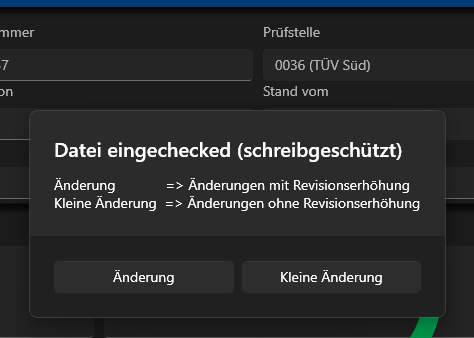
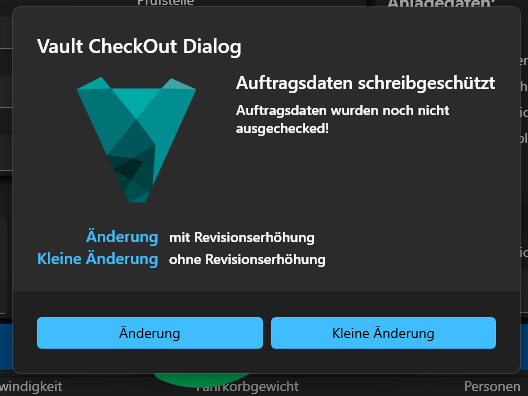
improve CheckOutDialog

diff --git a/LiftDataManager/Views/Dialogs/CheckOutDialog.xaml b/LiftDataManager/Views/Dialogs/CheckOutDialog.xaml
@@ -66,14 +66,13 @@
                     Margin="0,25,5,0"
                     VerticalAlignment="Center"
                     FontSize="36"
-                    FontWeight="Bold"
                     Foreground="IndianRed"
                     Glyph="&#xE7BA;"
                     Visibility="{x:Bind ViewModel.ShowReadOnlyWarning, Mode=OneWay}" />
                 <TextBlock
                     Width="275"
                     VerticalAlignment="Bottom"
-                    FontSize="16"
+                    FontSize="14"
                     Foreground="IndianRed"
                     Style="{StaticResource BodyStrongTextBlockStyle}"
                     Text="Bei schreibgeschützter Bearbeitung sind keine Änderungen möglich!"
@@ -92,39 +91,90 @@
             <Grid.RowDefinitions>
                 <RowDefinition Height="*" />
                 <RowDefinition Height="*" />
+                <RowDefinition Height="auto" />
             </Grid.RowDefinitions>
             <TextBlock
                 Grid.Row="0"
                 Grid.Column="0"
+                HorizontalAlignment="Right"
                 VerticalAlignment="Bottom"
-                FontSize="18"
+                FontSize="16"
                 Foreground="{ThemeResource AccentTextFillColorTertiaryBrush}"
                 Style="{StaticResource BodyStrongTextBlockStyle}"
-                Text="Änderung:" />
+                Text="Änderung">
+                <ToolTipService.ToolTip>
+                    <StackPanel>
+                        <TextBlock
+                            Margin="5"
+                            Foreground="{ThemeResource AccentTextFillColorTertiaryBrush}"
+                            Style="{StaticResource BodyStrongTextBlockStyle}"
+                            Text="Revision wird erhöht" />
+                        <Image Width="150" Source="/Docs/HelpImages/image189.png" />
+                    </StackPanel>
+                </ToolTipService.ToolTip>
+            </TextBlock>
             <TextBlock
                 Grid.Row="0"
                 Grid.Column="1"
                 Margin="10,0,0,0"
                 VerticalAlignment="Bottom"
-                FontSize="16"
                 Style="{StaticResource BaseTextBlockStyle}"
-                Text="Änderungen mit Revisionserhöhung" />
+                Text="mit Revisionserhöhung">
+                <ToolTipService.ToolTip>
+                    <StackPanel>
+                        <TextBlock
+                            Margin="5"
+                            Foreground="{ThemeResource AccentTextFillColorTertiaryBrush}"
+                            Style="{StaticResource BodyStrongTextBlockStyle}"
+                            Text="Revision wird erhöht" />
+                        <Image Width="150" Source="/Docs/HelpImages/image189.png" />
+                    </StackPanel>
+                </ToolTipService.ToolTip>
+            </TextBlock>
             <TextBlock
                 Grid.Row="1"
                 Grid.Column="0"
+                HorizontalAlignment="Right"
                 VerticalAlignment="Bottom"
-                FontSize="18"
+                FontSize="16"
                 Foreground="{ThemeResource AccentTextFillColorTertiaryBrush}"
                 Style="{StaticResource BodyStrongTextBlockStyle}"
-                Text="Kleine Änderung:" />
+                Text="Kleine Änderung">
+                <ToolTipService.ToolTip>
+                    <StackPanel>
+                        <TextBlock
+                            Margin="5"
+                            Foreground="{ThemeResource AccentTextFillColorTertiaryBrush}"
+                            Style="{StaticResource BodyStrongTextBlockStyle}"
+                            Text="Revision wird nicht erhöht" />
+                        <Image Width="150" Source="/Docs/HelpImages/image189.png" />
+                    </StackPanel>
+                </ToolTipService.ToolTip>
+            </TextBlock>
             <TextBlock
                 Grid.Row="1"
                 Grid.Column="1"
                 Margin="10,0,0,0"
                 VerticalAlignment="Bottom"
-                FontSize="16"
                 Style="{StaticResource BaseTextBlockStyle}"
-                Text="Änderungen ohne Revisionserhöhung" />
+                Text="ohne Revisionserhöhung">
+                <ToolTipService.ToolTip>
+                    <StackPanel>
+                        <TextBlock
+                            Margin="5"
+                            Foreground="{ThemeResource AccentTextFillColorTertiaryBrush}"
+                            Style="{StaticResource BodyStrongTextBlockStyle}"
+                            Text="Revision wird nicht erhöht" />
+                        <Image Width="150" Source="/Docs/HelpImages/image189.png" />
+                    </StackPanel>
+                </ToolTipService.ToolTip>
+            </TextBlock>
+            <ProgressBar
+                Grid.Row="2"
+                Grid.Column="0"
+                Grid.ColumnSpan="2"
+                Margin="0,20,0,0"
+                IsIndeterminate="{x:Bind ViewModel.PrimaryButtonClickedCommand.IsRunning, Mode=OneWay}" />
         </Grid>
     </Grid>
 </ContentDialog>

diff --git a/LiftDataManager/ViewModels/DataViewModelBase.cs b/LiftDataManager/ViewModels/DataViewModelBase.cs
@@ -196,53 +196,53 @@ public partial class DataViewModelBase : ObservableRecipient
 
     protected async virtual Task SetModelStateAsync()
     {
-        var dialogResult = await _dialogService.CheckOutDialogAsync(SpezifikationsNumber);
-        //if (AuftragsbezogeneXml)
-        //{
-        //    HasErrors = false;
-        //    HasErrors = ParameterDictionary!.Values.Any(p => p.HasErrors);
-        //    if (HasErrors)
-        //    {
-        //        SetErrorDictionary();
-        //    }
-        //}
+        if (AuftragsbezogeneXml)
+        {
+            HasErrors = false;
+            HasErrors = ParameterDictionary!.Values.Any(p => p.HasErrors);
+            if (HasErrors)
+            {
+                SetErrorDictionary();
+            }
+        }
 
-        //if (LikeEditParameter && AuftragsbezogeneXml)
-        //{
-        //    var dirty = ParameterDictionary!.Values.Any(p => p.IsDirty);
+        if (LikeEditParameter && AuftragsbezogeneXml)
+        {
+            var dirty = ParameterDictionary!.Values.Any(p => p.IsDirty);
 
-        //    if (CheckOut)
-        //    {
-        //        CanSaveAllSpeziParameters = dirty;
-        //    }
-        //    else if (dirty && !CheckoutDialogIsOpen)
-        //    {
-        //        CheckoutDialogIsOpen = true;
-        //        var dialogResult = await _dialogService!.WarningDialogAsync(
-        //                            $"Datei eingechecked (schreibgeschützt)",
-        //                            $"Die AutodeskTransferXml wurde noch nicht ausgechecked!\n" +
-        //                            $"Es sind keine Änderungen möglich!\n" +
-        //                            $"\n" +
-        //                            $"Soll zur HomeAnsicht gewechselt werden um die Datei auszuchecken?",
-        //                            "Zur HomeAnsicht", "Schreibgeschützt bearbeiten");
-        //        if ((bool)dialogResult)
-        //        {
-        //            CheckoutDialogIsOpen = false;
-        //            LiftParameterNavigationHelper.NavigateToPage(typeof(HomePage));
-        //        }
-        //        else
-        //        {
-        //            CheckoutDialogIsOpen = false;
-        //            LikeEditParameter = false;
-        //            if (CurrentSpeziProperties is not null)
-        //            {
-        //                CurrentSpeziProperties.LikeEditParameter = LikeEditParameter;
-        //                _ = Messenger.Send(new SpeziPropertiesChangedMessage(CurrentSpeziProperties));
-        //            }
-        //        }
-        //    }
-        //}
-        //await Task.CompletedTask;
+            if (CheckOut)
+            {
+                CanSaveAllSpeziParameters = dirty;
+            }
+            else if (dirty && !CheckoutDialogIsOpen)
+            {
+                CheckoutDialogIsOpen = true;
+                var dialogResult = await _dialogService.CheckOutDialogAsync(SpezifikationsNumber);
+                //var dialogResult = await _dialogService!.WarningDialogAsync(
+                //                    $"Datei eingechecked (schreibgeschützt)",
+                //                    $"Die AutodeskTransferXml wurde noch nicht ausgechecked!\n" +
+                //                    $"Es sind keine Änderungen möglich!\n" +
+                //                    $"\n" +
+                //                    $"Soll zur HomeAnsicht gewechselt werden um die Datei auszuchecken?",
+                //                    "Zur HomeAnsicht", "Schreibgeschützt bearbeiten");
+                //if ((bool)dialogResult)
+                //{
+                //    CheckoutDialogIsOpen = false;
+                //    LiftParameterNavigationHelper.NavigateToPage(typeof(HomePage));
+                //}
+                //else
+                //{
+                //    CheckoutDialogIsOpen = false;
+                //    LikeEditParameter = false;
+                //    if (CurrentSpeziProperties is not null)
+                //    {
+                //        CurrentSpeziProperties.LikeEditParameter = LikeEditParameter;
+                //        _ = Messenger.Send(new SpeziPropertiesChangedMessage(CurrentSpeziProperties));
+                //    }
+                //}
+            }
+        }
+        await Task.CompletedTask;
     }
 
     public void SetErrorDictionary()

diff --git a/LiftDataManager/ViewModels/Dialogs/CheckOutDialogViewModel.cs b/LiftDataManager/ViewModels/Dialogs/CheckOutDialogViewModel.cs
@@ -1,20 +1,27 @@
-using Microsoft.Extensions.Logging;
+using LiftDataManager.Core.Services;
+using Microsoft.Extensions.Logging;
 
 namespace LiftDataManager.ViewModels.Dialogs;
 
 public partial class CheckOutDialogViewModel : ObservableObject
 {
+    private readonly IVaultDataService _vaultDataService;
     private readonly ILogger<CheckOutDialogViewModel> _logger;
+
     public CheckOutDialogResult CheckOutDialogResult { get; set; }
     public string? SpezifikationName { get; set; }
     public bool ForceCheckOut { get; set; }
-    public CheckOutDialogViewModel(ILogger<CheckOutDialogViewModel> logger)
+    public CheckOutDialogViewModel(IVaultDataService vaultDataService, ILogger<CheckOutDialogViewModel> logger)
     {
+        _vaultDataService = vaultDataService;
         _logger = logger;
     }
 
     [ObservableProperty]
     private bool showReadOnlyWarning = true;
+
+    [ObservableProperty]
+    private bool checkOutInprogress;
 
     [RelayCommand]
     public async Task VaultCheckOutDialogLoadedAsync(CheckOutDialog sender)
@@ -36,20 +43,33 @@ public partial class CheckOutDialogViewModel : ObservableObject
         await Task.CompletedTask;
     }
     [RelayCommand]
-    public async Task PrimaryButtonClickedAsync(object sender)
+    public async Task PrimaryButtonClickedAsync(ContentDialogButtonClickEventArgs args)
     {
-        await Task.Delay(3000);
-        await Task.CompletedTask;
+        var deferral = args.GetDeferral();
+        await CheckOut(true);
+        deferral.Complete();
     }
     [RelayCommand]
-    public async Task SecondaryButtonClickedAsync(object sender)
+    public async Task SecondaryButtonClickedAsync(ContentDialogButtonClickEventArgs args)
     {
-        await Task.CompletedTask;
+        var deferral = args.GetDeferral();
+        await CheckOut(false);
+        deferral.Complete();
     }
     [RelayCommand]
-    public async Task CloseButtonClickedAsync(object sender)
+    public async Task CloseButtonClickedAsync(ContentDialogButtonClickEventArgs args)
     {
         await Task.CompletedTask;
     }
 
+    private async Task CheckOut(bool increaseRevision)
+    {
+        await Task.Delay(50);
+        var downloadResult = await _vaultDataService.GetFileAsync(SpezifikationName!);
+        if (downloadResult is not null)
+        {
+            Debug.WriteLine(downloadResult.IsCheckOut);
+        }
+        await Task.Delay(1000);
+    }
 }

diff --git a/LiftDataManager/ViewModels/GeneralData/HomeViewModel.cs b/LiftDataManager/ViewModels/GeneralData/HomeViewModel.cs
@@ -300,19 +300,12 @@ public partial class HomeViewModel : DataViewModelBase, INavigationAwareEx, IRec
     [RelayCommand(CanExecute = nameof(CanCheckOut))]
     private async Task CheckOutAsync()
     {
+        var dialogResult = await _dialogService.CheckOutDialogAsync(SpezifikationsNumber, true);
         OpenReadOnly = false;
-        var dialogMessage = """
-                                Änderung             => Änderungen mit Revisionserhöhung
-                                Kleine Änderung  => Änderungen ohne Revisionserhöhung
-                                """;
-        var dialogResult = await _dialogService!.WarningDialogAsync(
-                            "Datei eingechecked (schreibgeschützt)", dialogMessage,
-                            "Änderung", "Kleine Änderung");
         await LoadDataAsync();
-        if (dialogResult != null)
+        if (dialogResult == CheckOutDialogResult.SuccessfulIncreaseRevision)
         {
-            if ((bool)dialogResult)
-                IncreaseRevision();
+            IncreaseRevision();
         }
         StartSaveTimer();
         SetModifyInfos();

diff --git a/LiftDataManager/Contracts/Services/IDialogService.cs b/LiftDataManager/Contracts/Services/IDialogService.cs
@@ -1,7 +1,4 @@
-using Humanizer;
-using Microsoft.UI.Text;
-
-namespace LiftDataManager.Contracts.Services;
+namespace LiftDataManager.Contracts.Services;
 
 public interface IDialogService
 {
